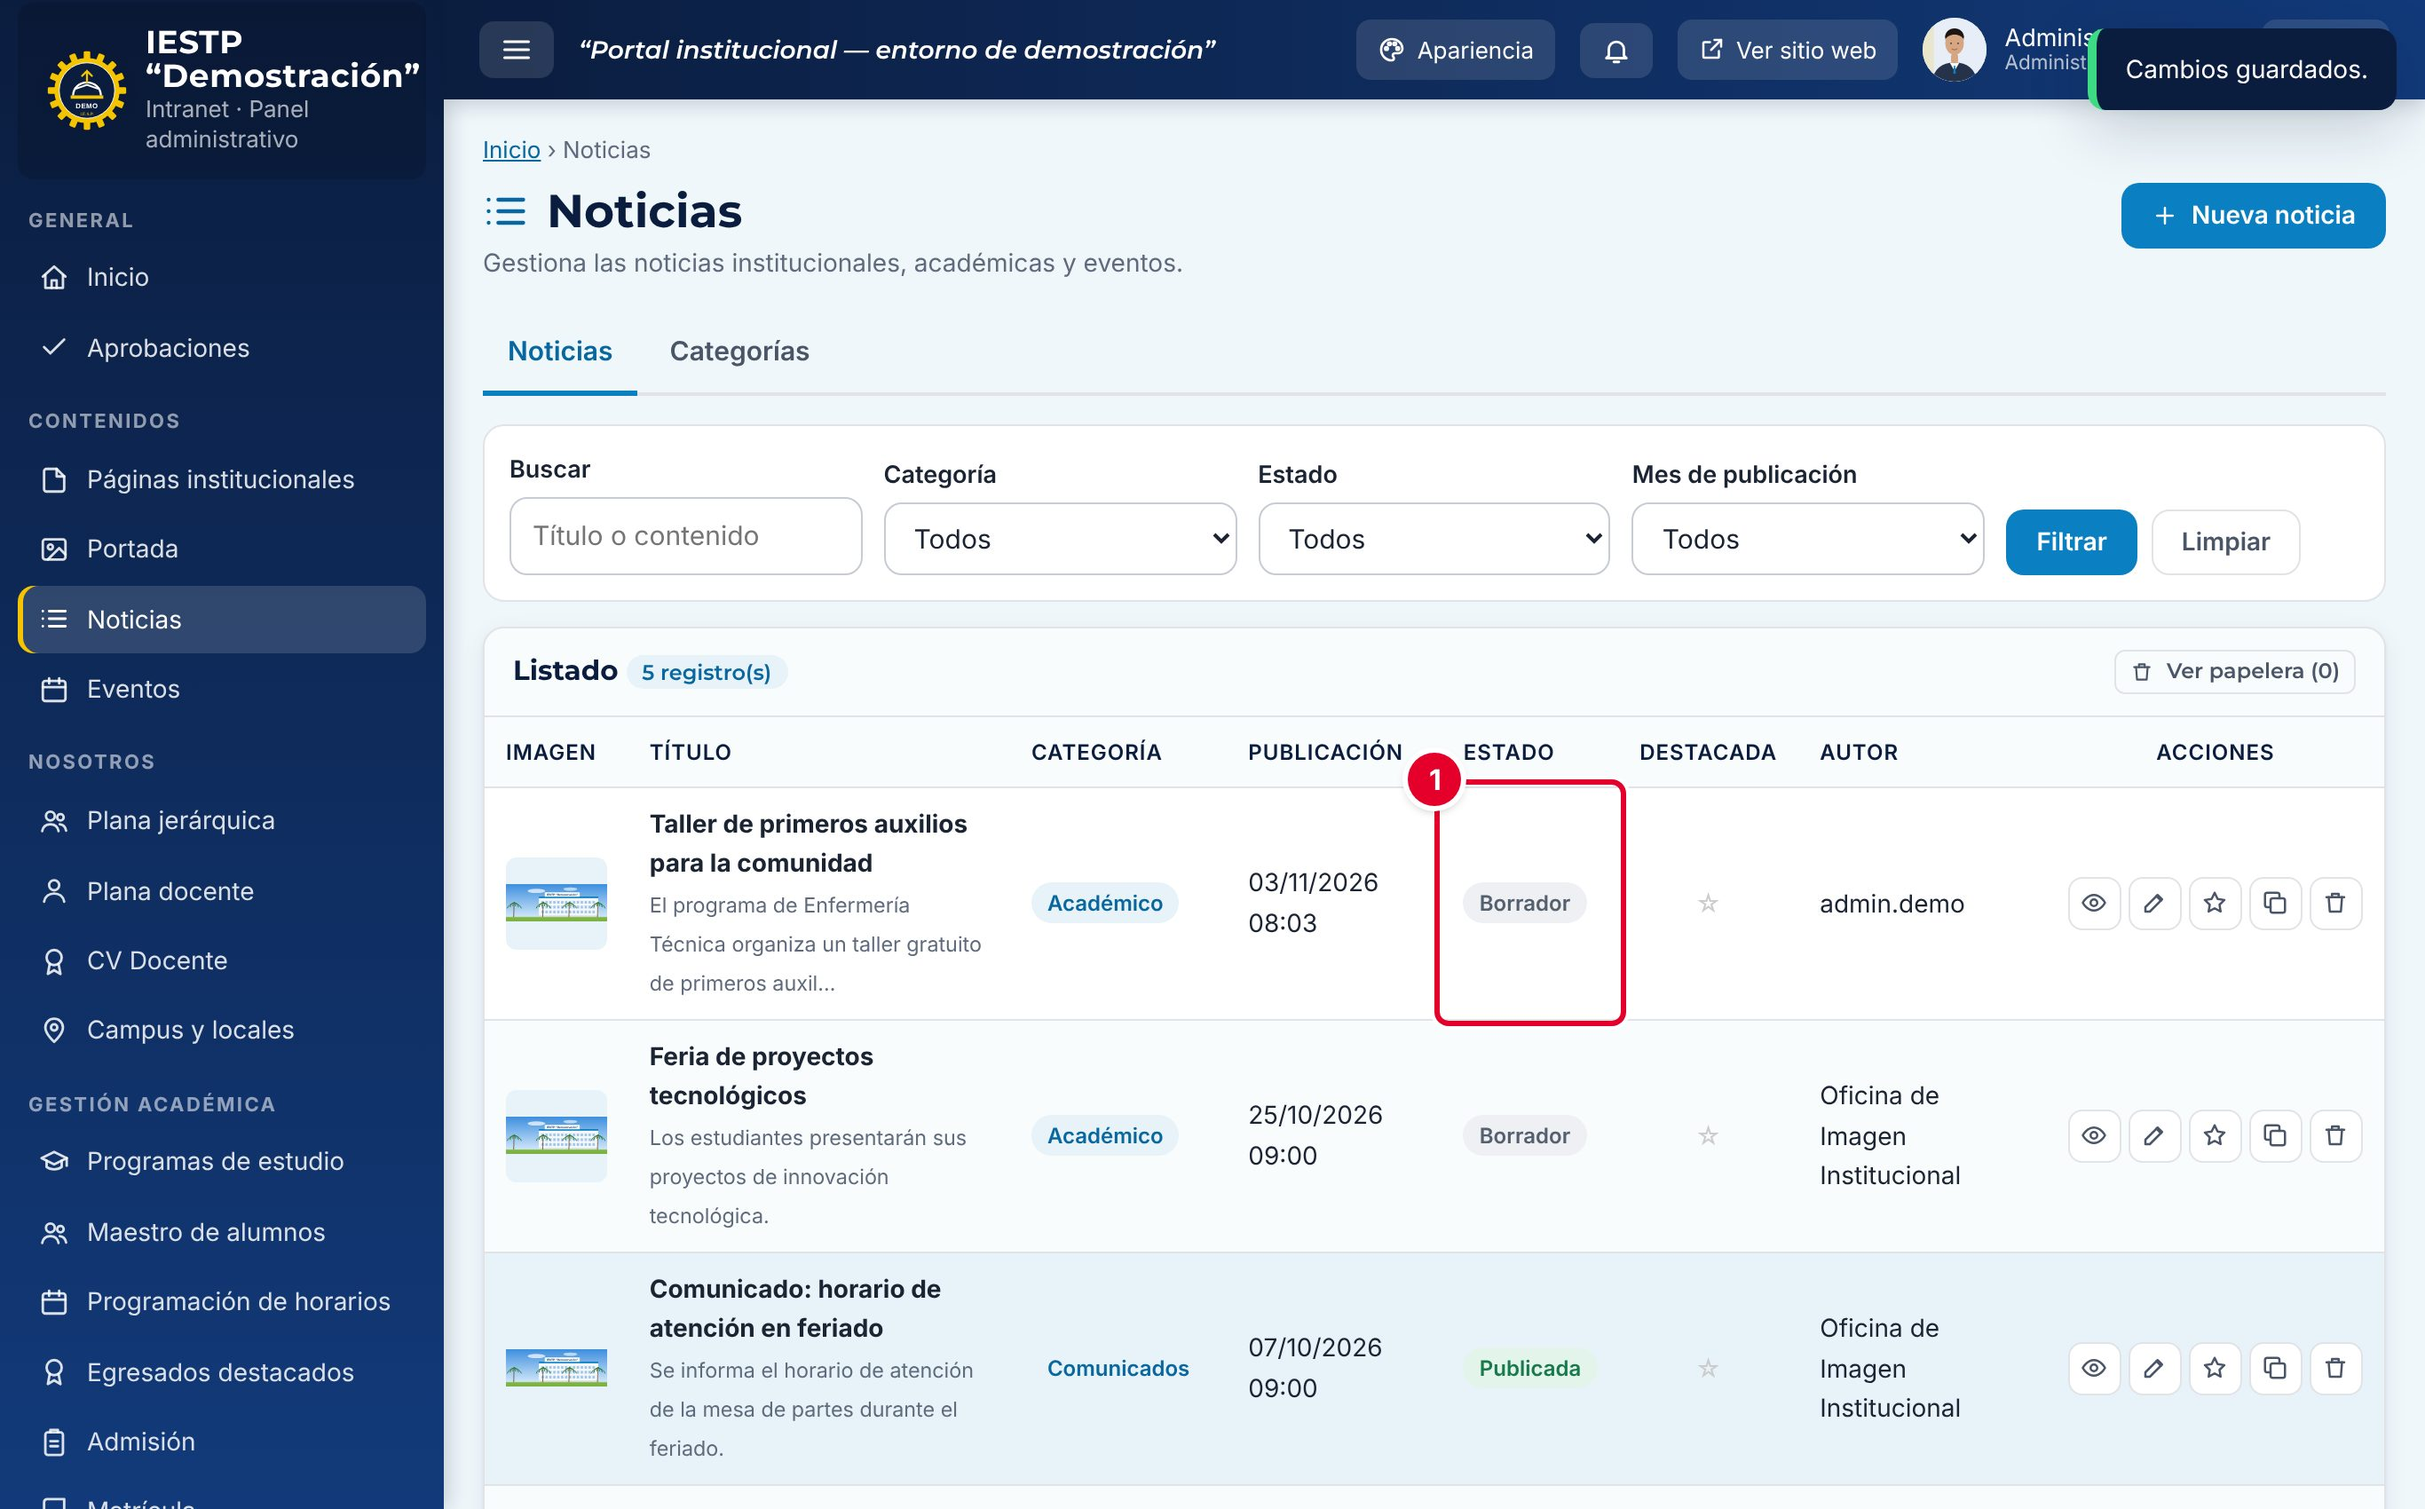
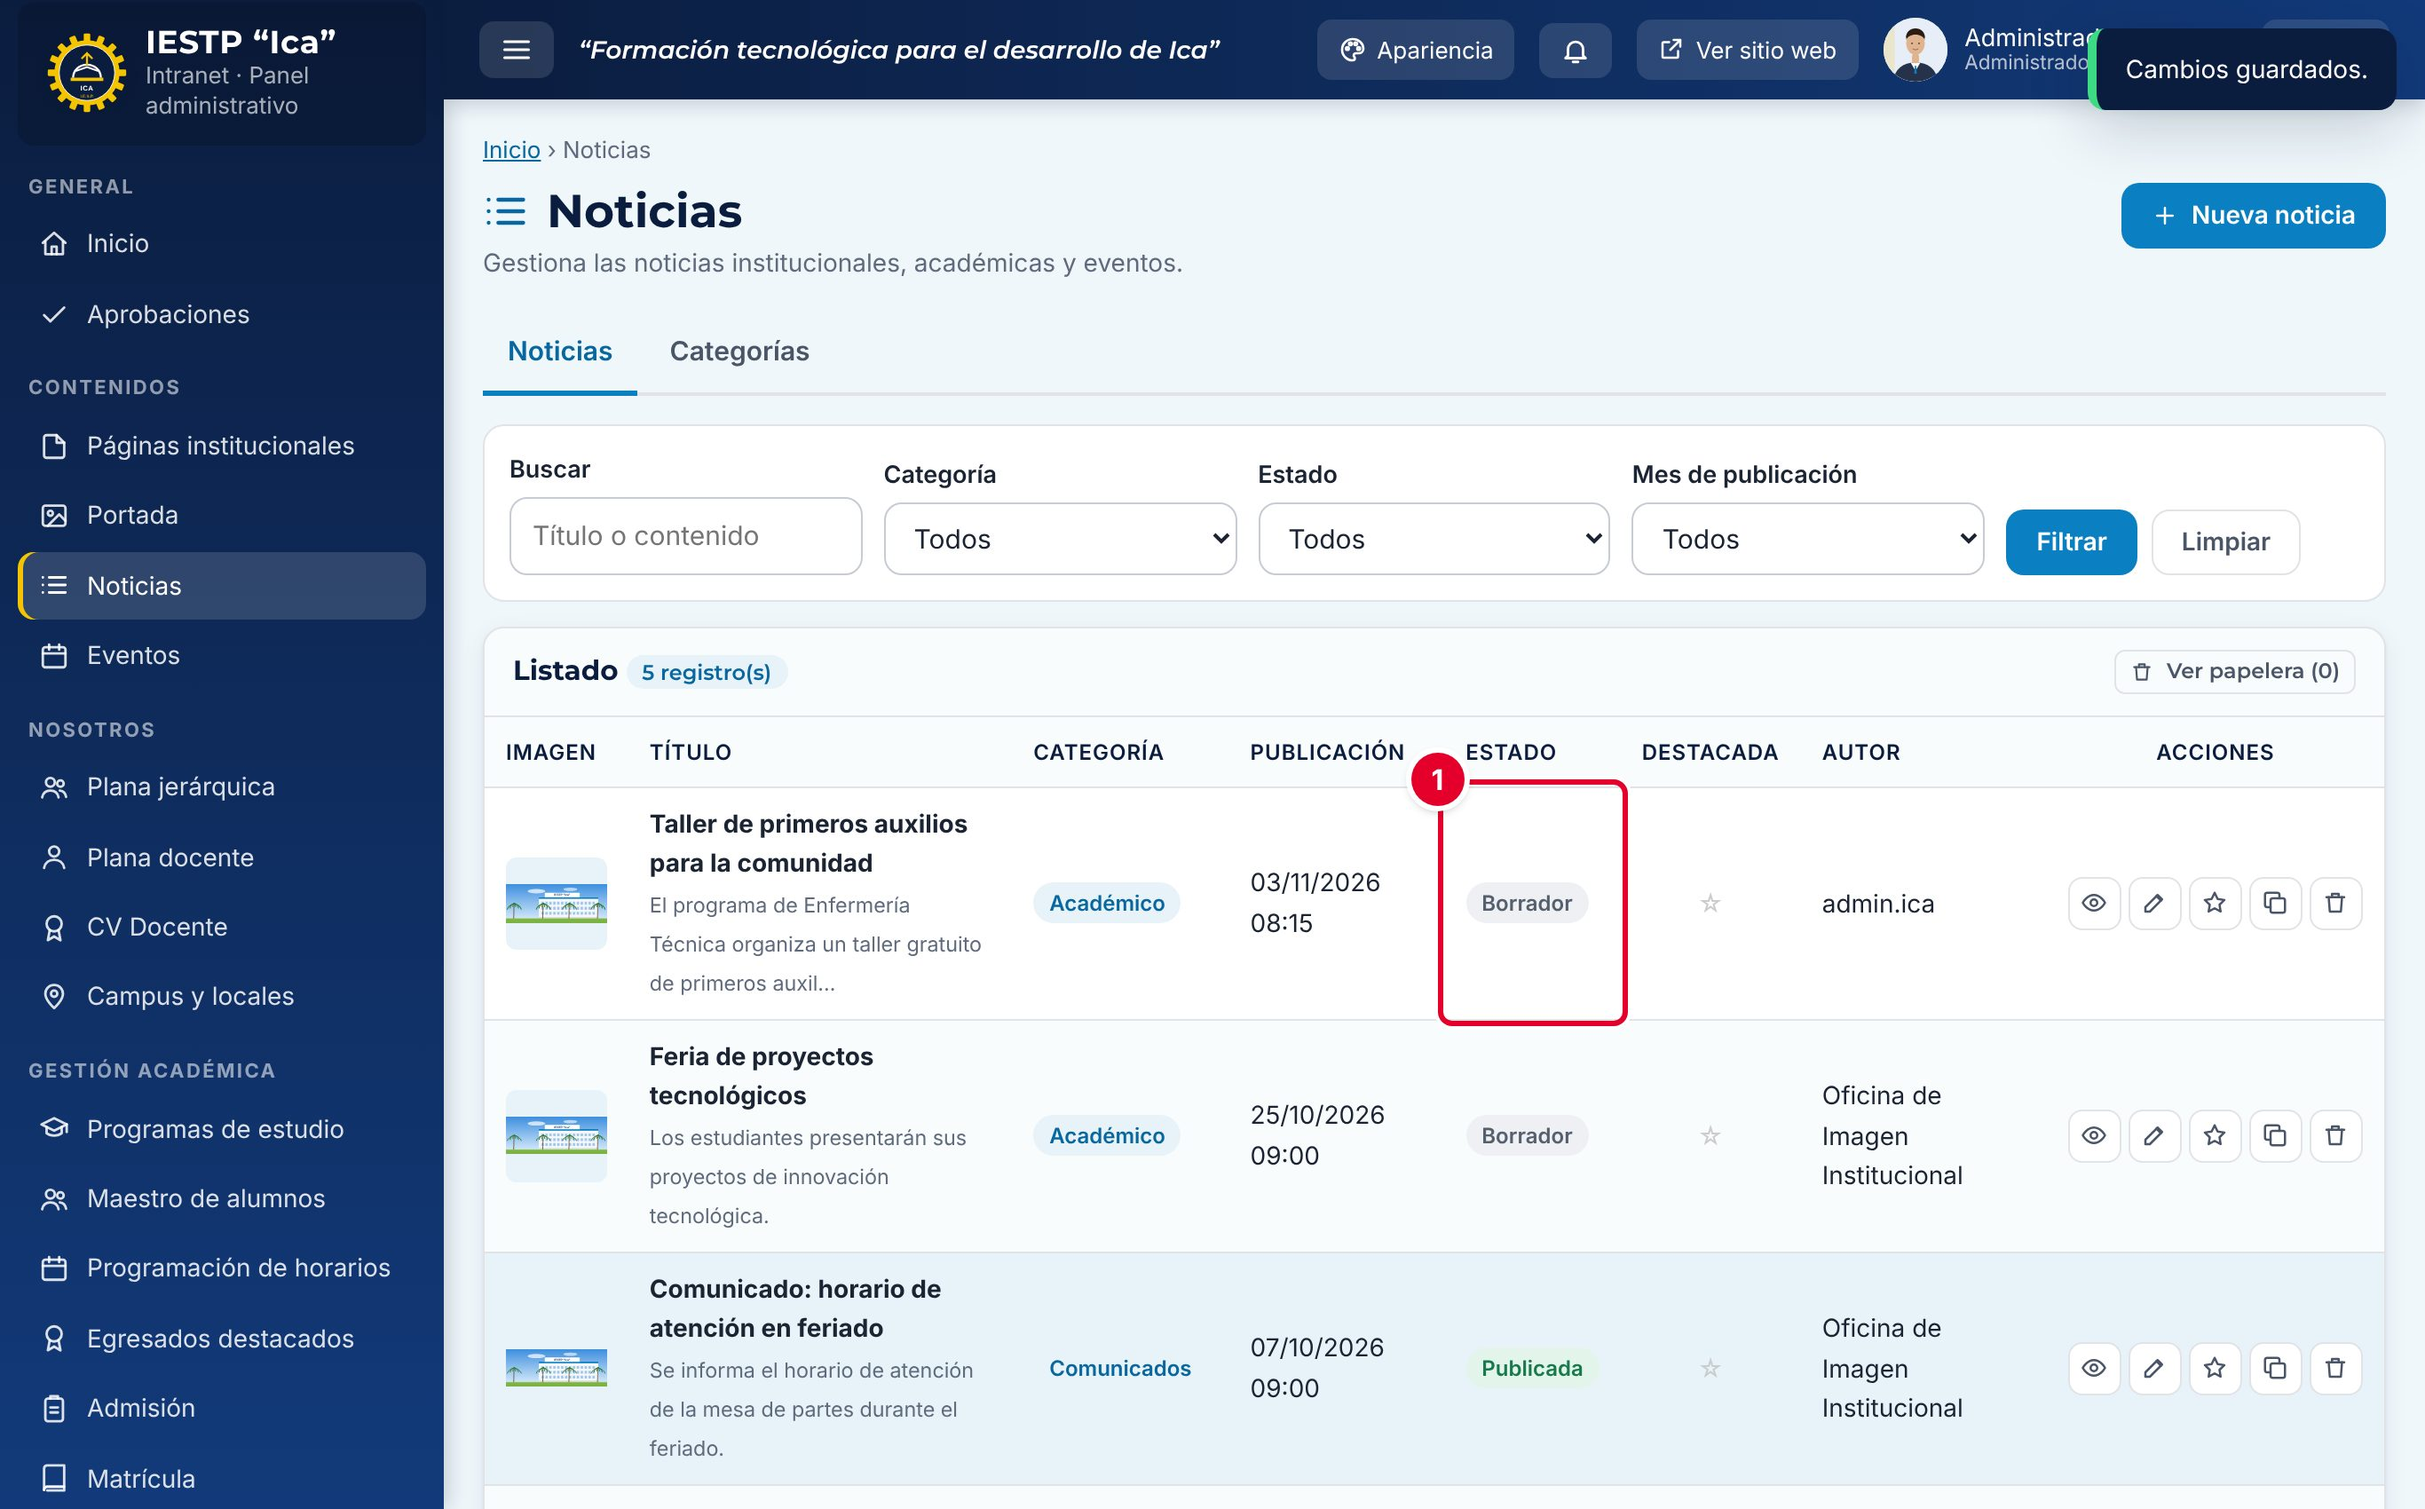
Usa el IESTP "Ica" como institución de referencia del manual
- La edición general del manual pasa de "Demostración" a IESTP "Ica"
  (ficha instituciones/ica.json; construir.js usa "ica" por defecto).
- Datos de prueba y capturas regenerados con la identidad de Ica
  (siguen siendo ficticios: personas, reclamos y noticias de ejemplo).
- Usuario de prueba admin.ica y textos de README e introducción actualizados.

Claude-Session: https://claude.ai/code/session_01DP8ftYn5PnbPtn76Vme9r6

diff --git a/manual/herramientas/construir.js b/manual/herramientas/construir.js
@@ -1,12 +1,12 @@
 // Construye el manual en HTML y PDF a partir de contenido/*.md y una ficha de instituciones/.
-// Uso: node construir.js [ficha]   (por defecto: demo)
+// Uso: node construir.js [ficha]   (por defecto: ica)
 const fs = require('fs');
 const path = require('path');
 const { marked } = require('marked');
 const { chromium } = require('playwright');
 
 const RAIZ = path.resolve(__dirname, '..');
-const fichaId = process.argv[2] || 'demo';
+const fichaId = process.argv[2] || 'ica';
 const ficha = JSON.parse(fs.readFileSync(path.join(RAIZ, 'instituciones', fichaId + '.json'), 'utf8'));
 const SALIDA = path.join(RAIZ, 'salida');
 fs.mkdirSync(SALIDA, { recursive: true });
@@ -115,7 +115,7 @@ aside.incidencia{border-left-color:var(--rojo);background:#fdecef}
     <dt>Edición</dt><dd>Etapa 1 (piloto): Introducción, Noticias y Libro de reclamaciones</dd>
     <dt>Fecha</dt><dd>${esc(hoy)}</dd>
   </dl>
-  <p class="nota">${esc(ficha.nota || '')} Las capturas se tomaron en una instalación de demostración con datos ficticios.</p>
+  <p class="nota">${esc(ficha.nota || '')} Las capturas se tomaron en una instalación de prueba con datos ficticios.</p>
 </header>
 <div class="contenedor">
 <nav class="indice"><h2>Contenido</h2><ol>${indice}</ol></nav>

diff --git a/manual/herramientas/capturas.js b/manual/herramientas/capturas.js
@@ -7,7 +7,7 @@ const fs = require('fs');
 const path = require('path');
 
 const BASE = process.env.BASE || 'http://127.0.0.1:8080';
-const USER = process.env.DEMO_USER || 'admin.demo';
+const USER = process.env.DEMO_USER || 'admin.ica';
 const PASS = process.env.DEMO_PASS || 'DemoManual2026';
 const OUT = path.resolve(__dirname, '..', 'img');
 const SOLO = process.argv[2] || '';
@@ -226,7 +226,7 @@ escena('07-reclamos', async ({ adm, pub }) => {
   const campo = t => p.locator('label', { hasText: t }).first().locator('xpath=..');
   await inp('Responsable institucional').fill('Rosa Mendoza Soto');
   await inp('Cargo').fill('Jefa de la Unidad de Bienestar y Empleabilidad');
-  await inp('Correo institucional').fill('reclamaciones@demo.edu.pe');
+  await inp('Correo institucional').fill('reclamaciones@ica.aplicacion.io');
   await inp('Área que recibe').selectOption({ label: 'Mesa de Partes' }).catch(() => {});
   await marcar(p, [[1, campo('Responsable institucional')], [2, campo('Área que recibe')], [3, campo('reclamos (días')], [4, campo('Alertar')],
     [5, p.getByRole('button', { name: /^Guardar$/ })]]);

diff --git a/manual/herramientas/anonimizar.py b/manual/herramientas/anonimizar.py
@@ -5,26 +5,26 @@ src, dst = sys.argv[1], sys.argv[2]
 d = json.load(open(src, encoding='utf-8'))
 random.seed(7)
 i = d['config']['inst']
-i.update({"nombre":"Instituto de Educación Superior Tecnológico Público “Demostración”",
- "nombreCorto":"IESTP “Demostración”","siglaBanner":"IESTP DEMOSTRACIÓN","logoSigla":"DEMO",
- "slogan":"Formación tecnológica de calidad","lema":"Portal institucional — entorno de demostración",
- "direccion":"Av. Principal N.º 100, Distrito, Provincia, Región","telefono":"(056) 000-000",
- "correo":"informes@demo.edu.pe","ruc":"20000000001","codigoModular":"0000000",
- "fechaCreacion":"1990-01-01","normaCreacion":"Norma de creación de ejemplo.","logo":"",
- "descripcion":"Institución ficticia usada para elaborar el manual de uso de la plataforma."})
+i.update({"nombre":"Instituto de Educación Superior Tecnológico Público “Ica”",
+ "nombreCorto":"IESTP “Ica”","siglaBanner":"IESTP ICA","logoSigla":"ICA",
+ "slogan":"Formación tecnológica de calidad","lema":"Formación tecnológica para el desarrollo de Ica",
+ "direccion":"Av. Principal N.º 100, Ica, Ica","telefono":"(056) 000-000",
+ "correo":"informes@ica.aplicacion.io","ruc":"20000000001","codigoModular":"0000000",
+ "fechaCreacion":"1990-01-01","normaCreacion":"Norma de creación de referencia (dato ficticio).","logo":"",
+ "descripcion":"Institución de referencia usada para elaborar el manual de uso de la plataforma. Los datos son ficticios."})
 # Responsable del Libro de reclamaciones y datos de Mesa de partes (se cargan directamente:
 # ver la incidencia de configuración documentada en el manual, capítulo 07).
 d['config'].setdefault('lr', {}).update({"responsable":"Rosa Mendoza Soto","cargo":"Jefa de la Unidad de Bienestar y Empleabilidad",
-  "correo":"reclamaciones@demo.edu.pe","areaInicial":"MP"})
-d['config'].setdefault('mpv', {}).update({"correo":"mesadepartes@demo.edu.pe","telefono":"(056) 000-000","prefijo":"MPV-DEMO"})
+  "correo":"reclamaciones@ica.aplicacion.io","areaInicial":"MP"})
+d['config'].setdefault('mpv', {}).update({"correo":"mesadepartes@ica.aplicacion.io","telefono":"(056) 000-000","prefijo":"MPV-ICA"})
 for k in ('correoContacto','correoReclamos'):
-    if k in d['config']: d['config'][k] = 'atencion@demo.edu.pe'
+    if k in d['config']: d['config'][k] = 'atencion@ica.aplicacion.io'
 NOM = ["Ana","Luis","María","Jorge","Rosa","Carlos","Lucía","Pedro","Elena","Miguel","Sofía","Raúl","Carmen","Diego","Julia","Víctor"]
 APE = ["Quispe Ramos","Flores Díaz","Torres Vega","Huamán Cruz","Rojas Paredes","Mendoza Soto","Castillo Ruiz","Vargas León","Chávez Rivas","Salazar Núñez"]
 def fake(o):
     o['nombres'] = random.choice(NOM); o['apellidos'] = random.choice(APE)
 for p in d.get('personas', []):
-    fake(p); p['foto'] = ''; p['correo'] = 'docente@demo.edu.pe' if p.get('correo') else ''; p['telefono'] = ''
+    fake(p); p['foto'] = ''; p['correo'] = 'docente@ica.aplicacion.io' if p.get('correo') else ''; p['telefono'] = ''
     if 'nombrePublicado' in p: p['nombrePublicado'] = f"{p['nombres']} {p['apellidos']}"
 for b in d.get('becarios', []):
     fake(b); b['dni'] = str(random.randint(10000000, 99999999))
@@ -45,7 +45,7 @@ news = []
 for n,(t,c,f,e,r) in enumerate(demo,1):
     x = dict(base); x.update({"id":f"demo-noticia-{n}","titulo":t,"slug":t.lower().replace(' ','-').replace(':','').replace('é','e').replace('ó','o').replace('í','i').replace('á','a'),
       "categoriaId":c,"fecha":f+"T09:00:00-05:00","resumen":r,"contenido":f"<p>{r}</p>","imagen":"","video":"","adjuntos":[],
-      "destacada":n==1,"estado":e,"autor":"Oficina de Imagen Institucional","fuente":"","creadoPor":"admin.demo","modPor":"admin.demo"})
+      "destacada":n==1,"estado":e,"autor":"Oficina de Imagen Institucional","fuente":"","creadoPor":"admin.ica","modPor":"admin.ica"})
     news.append(x)
 d['noticias'] = news
 json.dump(d, open(dst,'w',encoding='utf-8'), ensure_ascii=False)

diff --git a/manual/README.md b/manual/README.md
@@ -40,7 +40,7 @@ Las guías B y C se arman reutilizando las secciones del volumen A; no se redact
 2. Se escribe en segunda persona y en imperativo: «Pulsa **Guardar cambios**». Los nombres de botones, pestañas y campos van en **negrita** y se copian tal como aparecen en pantalla.
 3. Cada captura lleva números rojos (①②③) y, debajo, una tabla que explica cada número.
 4. Los flujos con estados llevan un diagrama (bloque `mermaid`).
-5. No se incluyen datos personales reales. Todas las capturas salen de la instalación de demostración.
+5. No se incluyen datos personales reales. Todas las capturas salen de la instalación de prueba del IESTP “Ica”, la institución de referencia, con datos ficticios.
 6. Los errores de la plataforma que se detecten al documentar se registran en un recuadro **Incidencia** dentro del capítulo y se reportan para su corrección.
 
 ## Cómo regenerar las capturas y el manual
@@ -65,13 +65,13 @@ Toma todas las capturas. También se puede tomar un solo capítulo pasando su pr
 node capturas.js
 ```
 
-Genera el manual con la ficha de una institución:
+Genera el manual general (institución de referencia: IESTP “Ica”):
 
 ```bash
-node construir.js demo
+node construir.js ica
 ```
 
-Ejemplos con otras fichas: `node construir.js marcona`, `node construir.js nasca`. El resultado queda en `salida/manual-<ficha>.html` y `salida/manual-<ficha>.pdf`.
+Para la edición de una institución concreta, usa su ficha, por ejemplo `node construir.js marcona`. El resultado queda en `salida/manual-<ficha>.html` y `salida/manual-<ficha>.pdf`.
 
 `capturas.js` **se niega a correr contra un dominio que no sea local**. Crea y modifica registros, así que nunca debe apuntar a un portal en producción.
 

diff --git a/manual/contenido/00-introduccion.md b/manual/contenido/00-introduccion.md
@@ -7,7 +7,7 @@ La plataforma tiene dos partes que trabajan con la misma información:
 - **Portal web público** (`{{inst.dominio}}`): lo que ve cualquier persona. Muestra la información institucional, los programas de estudio, la transparencia y las noticias, y ofrece servicios en línea como Mesa de partes, Libro de reclamaciones, consulta de certificados y bolsa laboral.
 - **Intranet** (`{{inst.dominio}}/#/admin`): el panel donde el personal autorizado administra ese contenido y atiende los trámites. Todo lo que se publica en la intranet aparece en el portal en cuanto se guarda; no hay que hacer ningún otro paso.
 
-Este manual describe la versión estándar de la plataforma, que es la misma en todas las instituciones. Las capturas provienen de una **instalación de demostración con datos ficticios** («IESTP “Demostración”»). En tu institución verás tu propio nombre, logotipo y colores.
+Este manual describe la versión estándar de la plataforma, que es la misma en todas las instituciones. Como institución de referencia se usa el **IESTP “Ica”**: todas las capturas se tomaron en una instalación de prueba con **datos ficticios** (personas, reclamos y noticias de ejemplo). En tu institución verás tu propio nombre, logotipo y colores.
 
 ## Ingresar a la intranet
 
